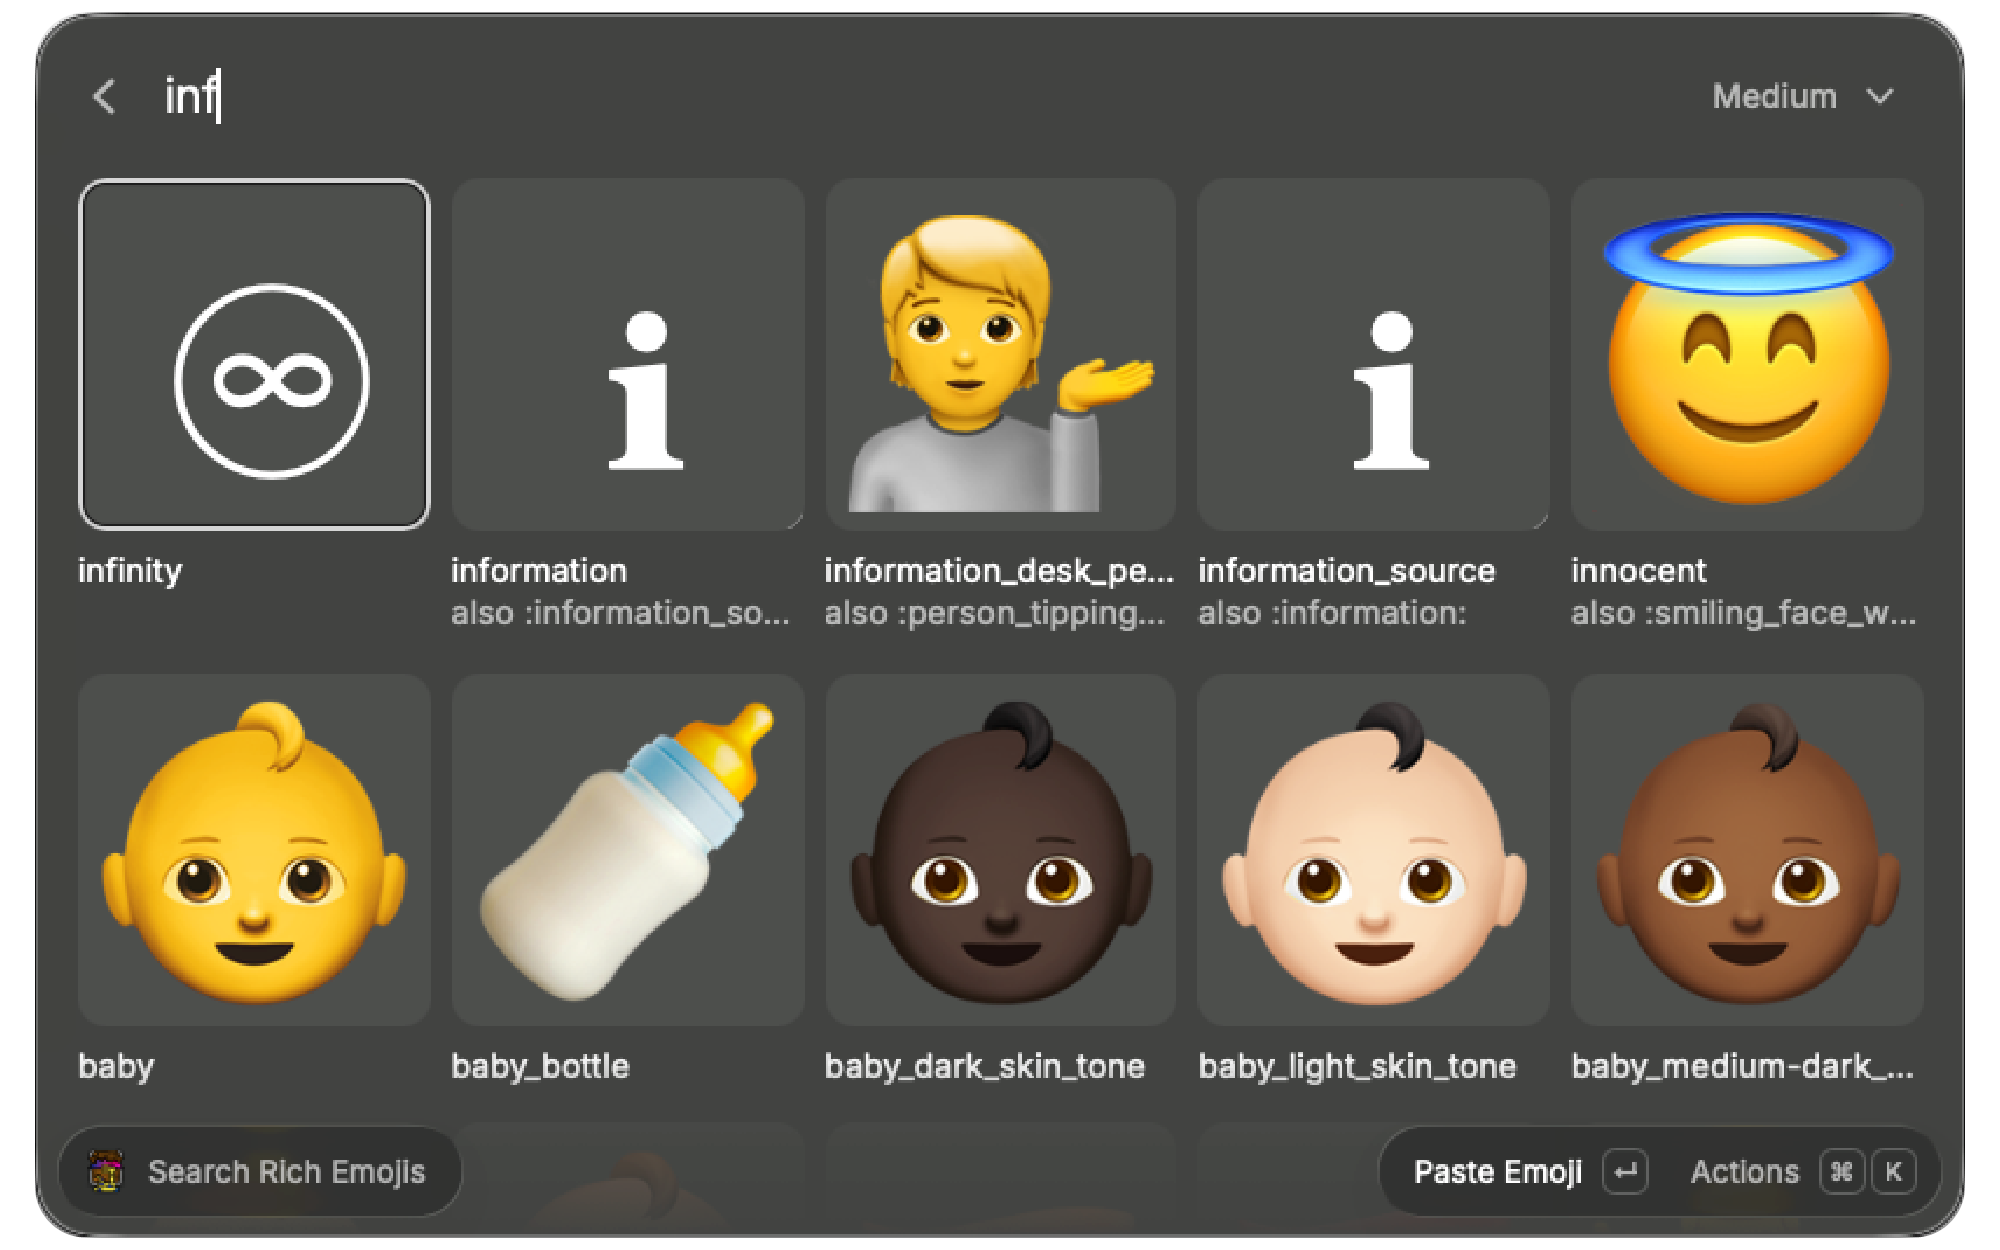
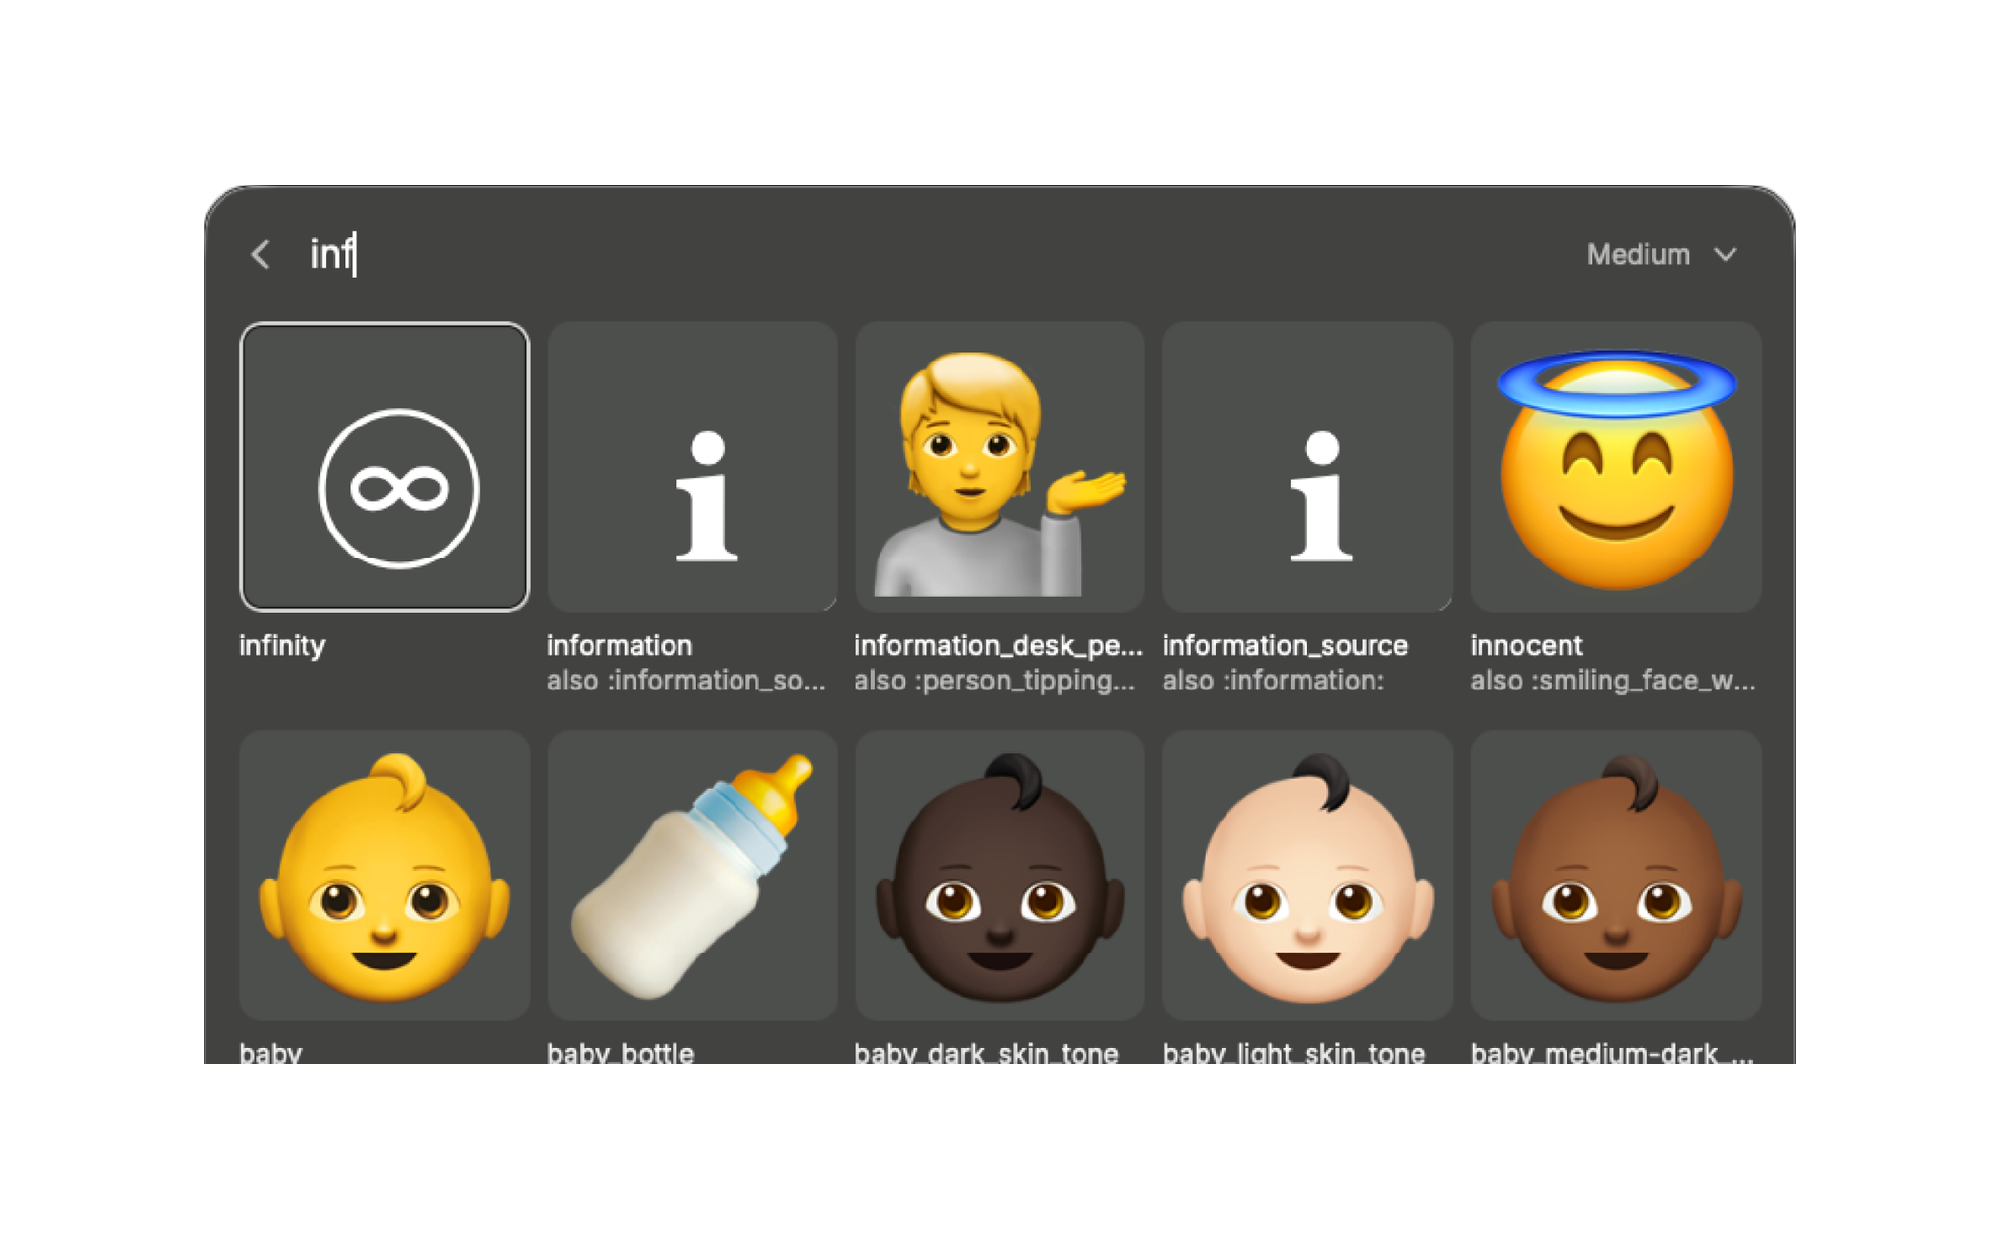
Recentre metadata screenshots to pass image validation
The store validator requires each side padded 8%-17% of the canvas with at
most 4% asymmetry. Both shots had the window flush against one edge — the
light one at 2.0% top and 22.1%/8.8% left-right, the dark one at 2.7% sides.

Crop to the window and recentre it at a size where both axes land inside the
band. Horizontal padding is measured against width and vertical against
height, so a window wider than 1.6:1 cannot sit at 12.5% on both; centring
still drives both asymmetry checks to zero. Verified against the validator
from raycast/extensions: 2 passed, 0 failed.

diff --git a/docs/metadata-images.md b/docs/metadata-images.md
@@ -1,0 +1,27 @@
+# Validating metadata images before pushing
+
+`raycast/extensions` runs `scripts/check_metadata_images.py` on every changed
+file under `metadata/`, which delegates to `scripts/check_raycast_images.py`.
+The rules it enforces:
+
+- exactly 2000×1250
+- each side padded 8%–17% of the canvas, target 12.5% — horizontal measured
+  against width, vertical against height
+- left/right and top/bottom padding within 4% of each other
+
+"Padding" is the gap between the canvas edge and the detected window. Because
+the two axes are measured against different dimensions, a window wider than
+1.6:1 cannot sit at 12.5% on both axes; pick a size where both land inside the
+band instead, and centre it so both asymmetry checks come out at zero.
+
+Run the same validator locally rather than guessing:
+
+```sh
+curl -sSLO https://raw.githubusercontent.com/raycast/extensions/main/scripts/check_raycast_images.py
+python3 -m venv /tmp/rcv && /tmp/rcv/bin/pip install -q pillow numpy
+/tmp/rcv/bin/python check_raycast_images.py metadata/*.png --verbose
+```
+
+`--verbose` prints the detected window bbox and the raw percentages, which is
+what you need when a shot fails: the gradient detector occasionally latches onto
+an inner edge rather than the window frame, and its bbox is the thing to fix.
